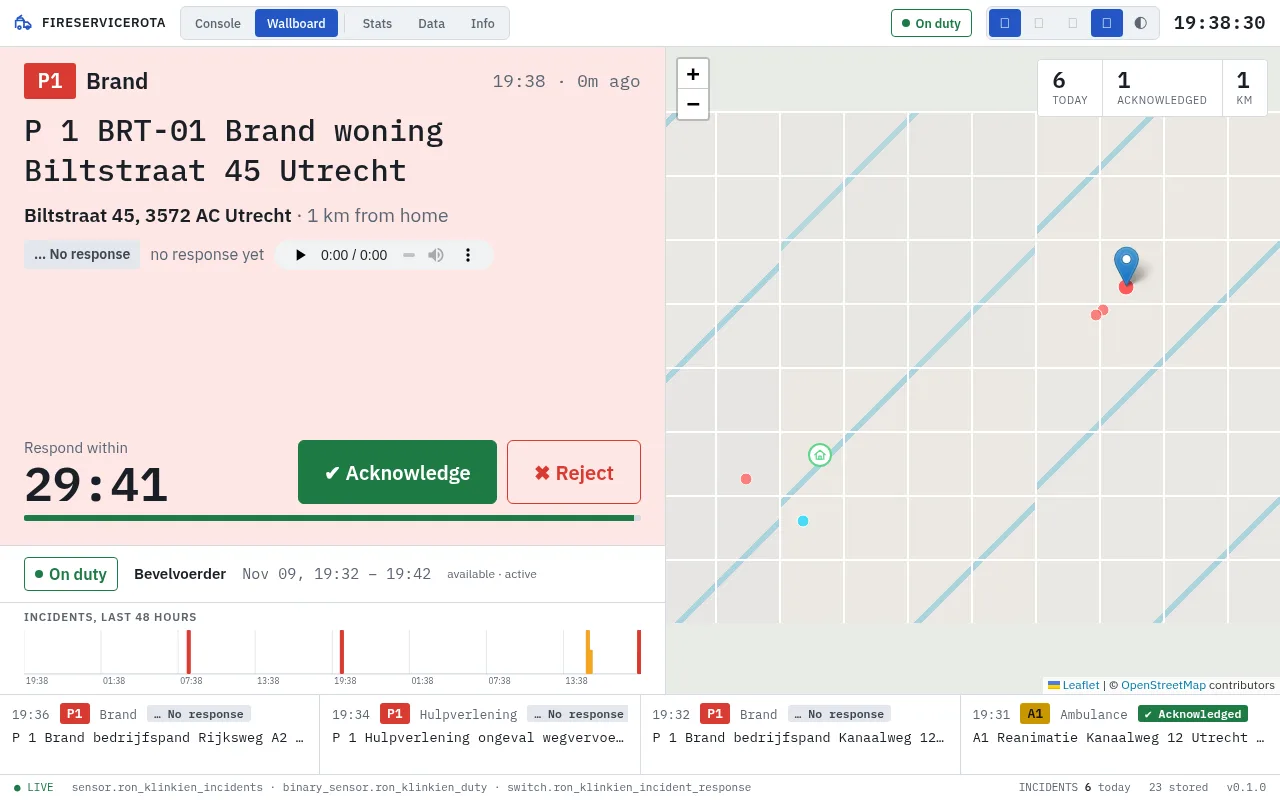
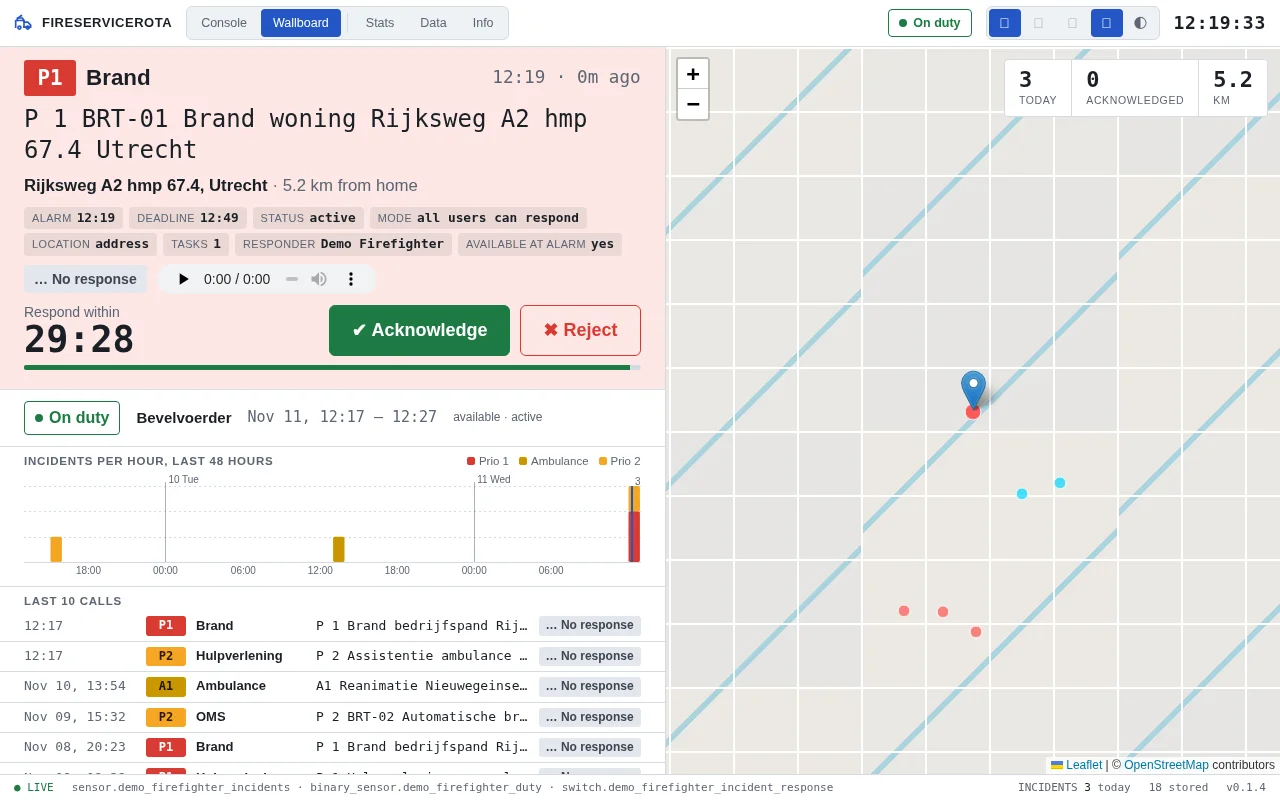
Screenshots: current app names, a demo identity and a November GoodWe day (#71)
* Screenshots: retake Tesla and GoodWe with the current app names

The dark dashboards and Tesla's Trips, Charging and Stats screenshots still
showed TeslaMeter / GoodWe Guru and old versions. All retaken from the mocks
at the same sizes; GoodWe's light dashboard is retaken too so the pair match,
now with a day of recorded readings behind the Solar today chart.

* GoodWe mock follows the season; FireServiceRota mock uses a demo identity

- app-goodwe/tools/mock_inverter.py: the sun follows the simulated date at
  about 52°N (solar elevation from declination and hour angle), so a November
  day gives ~3 kWh like the real forecast instead of summer production;
  MOCK_SOC sets the battery's starting charge
- app-goodwe screenshots retaken: a November day, numbers consistent with
  the forecast, the battery and the grid
- app-fireservicerota/tools/mock_ha.py: "Demo Firefighter" entities and
  names instead of a real person's
- app-fireservicerota screenshots retaken with the demo identity; Wallboard
  caption matches the current layout

---------

diff --git a/app-fireservicerota/tools/mock_ha.py b/app-fireservicerota/tools/mock_ha.py
@@ -32,14 +32,14 @@ DUTY_SECONDS = int(os.environ.get("FSR_MOCK_DUTY_SECONDS", "600"))
 HISTORY_DAYS = 14
 DATA_DIR = Path(os.environ.get("FSR_DATA_DIR", "/tmp/fsr-mock"))
 
-INCIDENTS = "sensor.ron_klinkien_incidents"
-DUTY = "binary_sensor.ron_klinkien_duty"
-RESPONSE = "switch.ron_klinkien_incident_response"
+INCIDENTS = "sensor.demo_firefighter_incidents"
+DUTY = "binary_sensor.demo_firefighter_duty"
+RESPONSE = "switch.demo_firefighter_incident_response"
 REGISTRY = [
     {
         "entity_id": INCIDENTS,
         "platform": "fireservicerota",
-        "unique_id": "ron@example.com_Incidents",
+        "unique_id": "demo@example.com_Incidents",
         "translation_key": "incidents",
         "config_entry_id": "mockentry",
         "disabled_by": None,
@@ -47,7 +47,7 @@ REGISTRY = [
     {
         "entity_id": DUTY,
         "platform": "fireservicerota",
-        "unique_id": "ron@example.com_Duty",
+        "unique_id": "demo@example.com_Duty",
         "translation_key": "duty",
         "config_entry_id": "mockentry",
         "disabled_by": None,
@@ -55,7 +55,7 @@ REGISTRY = [
     {
         "entity_id": RESPONSE,
         "platform": "fireservicerota",
-        "unique_id": "ron@example.com_Response",
+        "unique_id": "demo@example.com_Response",
         "translation_key": "incident_response",
         "config_entry_id": "mockentry",
         "disabled_by": None,
@@ -227,12 +227,12 @@ class MockHomeAssistant:
             "skill_ids": [3, 7],
             "type": "standby_duty",
             "assigned_function": "Bevelvoerder" if on else None,
-            "friendly_name": "Ron Klinkien Duty",
+            "friendly_name": "Demo Firefighter Duty",
         }
 
     def _response_attrs(self, status: str | None, responded: datetime | None, incident_start: datetime) -> dict:
         return {
-            "user_name": "Ron Klinkien",
+            "user_name": "Demo Firefighter",
             "assigned_skill_ids": [3],
             "responded_at": local_iso(responded) if responded else None,
             "start_time": local_iso(incident_start),
@@ -241,7 +241,7 @@ class MockHomeAssistant:
             "arrived_at_station": False,
             "available_at_incident_creation": True,
             "active_duty_function_ids": [12],
-            "friendly_name": "Ron Klinkien Incident response",
+            "friendly_name": "Demo Firefighter Incident response",
         }
 
     def _seed(self) -> None:
@@ -251,7 +251,7 @@ class MockHomeAssistant:
         first = today - timedelta(days=HISTORY_DAYS)
         self._set(DUTY, "off", self._duty_attrs(False, first, first), when=first, record=False)
         self._set(
-            RESPONSE, "unavailable", {"friendly_name": "Ron Klinkien Incident response"}, when=first, record=False
+            RESPONSE, "unavailable", {"friendly_name": "Demo Firefighter Incident response"}, when=first, record=False
         )
         for d in range(HISTORY_DAYS + 1):
             day = first + timedelta(days=d)
@@ -265,7 +265,7 @@ class MockHomeAssistant:
                     self._set(
                         RESPONSE,
                         "unknown",
-                        {"friendly_name": "Ron Klinkien Incident response"},
+                        {"friendly_name": "Demo Firefighter Incident response"},
                         when=start,
                         record=False,
                     )
@@ -354,9 +354,9 @@ class MockHomeAssistant:
         on = not self._on_duty()
         self._set(DUTY, "on" if on else "off", self._duty_attrs(on, now, now + timedelta(seconds=DUTY_SECONDS)))
         if on:
-            self._set(RESPONSE, "unknown", {"friendly_name": "Ron Klinkien Incident response"})
+            self._set(RESPONSE, "unknown", {"friendly_name": "Demo Firefighter Incident response"})
         else:
-            self._set(RESPONSE, "unavailable", {"friendly_name": "Ron Klinkien Incident response"})
+            self._set(RESPONSE, "unavailable", {"friendly_name": "Demo Firefighter Incident response"})
         logger.info(f"Mock: {'on' if on else 'off'} duty")
 
     async def _arrive_later(self) -> None:

diff --git a/app-goodwe/tools/mock_inverter.py b/app-goodwe/tools/mock_inverter.py
@@ -3,9 +3,11 @@
     GOODWE_MOCK_INVERTER=tools.mock_inverter GOODWE_DATA_DIR=/tmp/goodwe python3 -m src
 
 It simulates a sunny day on fast-forward (one simulated day per real hour by default,
-MOCK_SPEED sets the factor), a house with a varying load, and a battery that charges
-from the surplus and discharges at night, following the DoD, charge current and export
-limit that are written to it, so the controller's behaviour can be watched.
+MOCK_SPEED sets the factor) with the sun of the simulated date at about 52°N, so a
+November day gives a fraction of a June day; a house with a varying load; and a battery
+(MOCK_SOC sets where it starts, 55% by default) that charges from the surplus and
+discharges at night, following the DoD, charge current and export limit that are written
+to it, so the controller's behaviour can be watched.
 """
 
 import math
@@ -16,6 +18,21 @@ from datetime import datetime
 
 SPEED = float(os.environ.get("MOCK_SPEED", "24"))
 CAPACITY_WH = 10000.0
+PEAK_W = 4000.0  # the panels, in full sun overhead
+LATITUDE = math.radians(52.1)
+SOLAR_NOON = 12.7  # local clock hour, Central European winter time at about 5°E
+
+
+def sun_height(when: datetime) -> float:
+    """Sine of the sun's elevation at `when`: 0 or less at night, highest at midsummer noon."""
+    declination = math.radians(-23.44) * math.cos(2 * math.pi / 365 * (when.timetuple().tm_yday + 10))
+    hour = when.hour + when.minute / 60 + when.second / 3600
+    if time.localtime(when.timestamp()).tm_isdst:
+        hour -= 1
+    hour_angle = math.radians(15 * (hour - SOLAR_NOON))
+    return math.sin(LATITUDE) * math.sin(declination) + math.cos(LATITUDE) * math.cos(declination) * math.cos(
+        hour_angle
+    )
 
 
 def connect():
@@ -35,7 +52,7 @@ class ES:
 
     def __init__(self):
         self.started = time.time()
-        self.soc = 55.0
+        self.soc = float(os.environ.get("MOCK_SOC", "55"))  # the battery at start
         self.settings = {
             "dod": 80,
             "grid_export_limit": 6000,
@@ -75,9 +92,10 @@ class ES:
         if now.date() != self.day_of:
             self.day_of, self.e_day = now.date(), 0.0
 
-        daylight = max(0.0, math.sin((hour - 6) / 13 * math.pi)) if 6 <= hour <= 19 else 0.0
+        # Low sun gives much less than its height suggests (longer path through the air)
+        daylight = max(0.0, sun_height(now)) ** 1.5
         cloud = 0.75 + 0.25 * math.sin(hour * 2.1 + now.day)
-        potential = 3600 * daylight * cloud
+        potential = PEAK_W * daylight * cloud
         load = 350 + 250 * (1 + math.sin(hour / 24 * 2 * math.pi * 2 + 1)) + random.uniform(-40, 40)
         if 17 <= hour <= 22:
             load += 900

diff --git a/app-fireservicerota/README.md b/app-fireservicerota/README.md
@@ -31,7 +31,7 @@ records stays in the app's data folder and is included in your Home Assistant ba
 **Console, dark theme** — follows Home Assistant's light/dark mode
 ![Console view in the dark theme](https://raw.githubusercontent.com/cyberjunky/home-assistant-apps/main/app-fireservicerota/screenshots/console-dark.webp)
 
-**Wallboard** — the current incident large with the countdown and answer buttons, the map, your duty, the last 48 hours and a ticker of recent incidents
+**Wallboard** — the current incident large with the countdown and answer buttons, the map, your duty, incidents per hour over the last 48 hours and the last 10 calls
 ![Wallboard view](https://raw.githubusercontent.com/cyberjunky/home-assistant-apps/main/app-fireservicerota/screenshots/wallboard-1280x800.webp)
 
 **Stats** — totals and response rates, incidents per day, by type and priority, busiest hours and weekdays, duty periods
